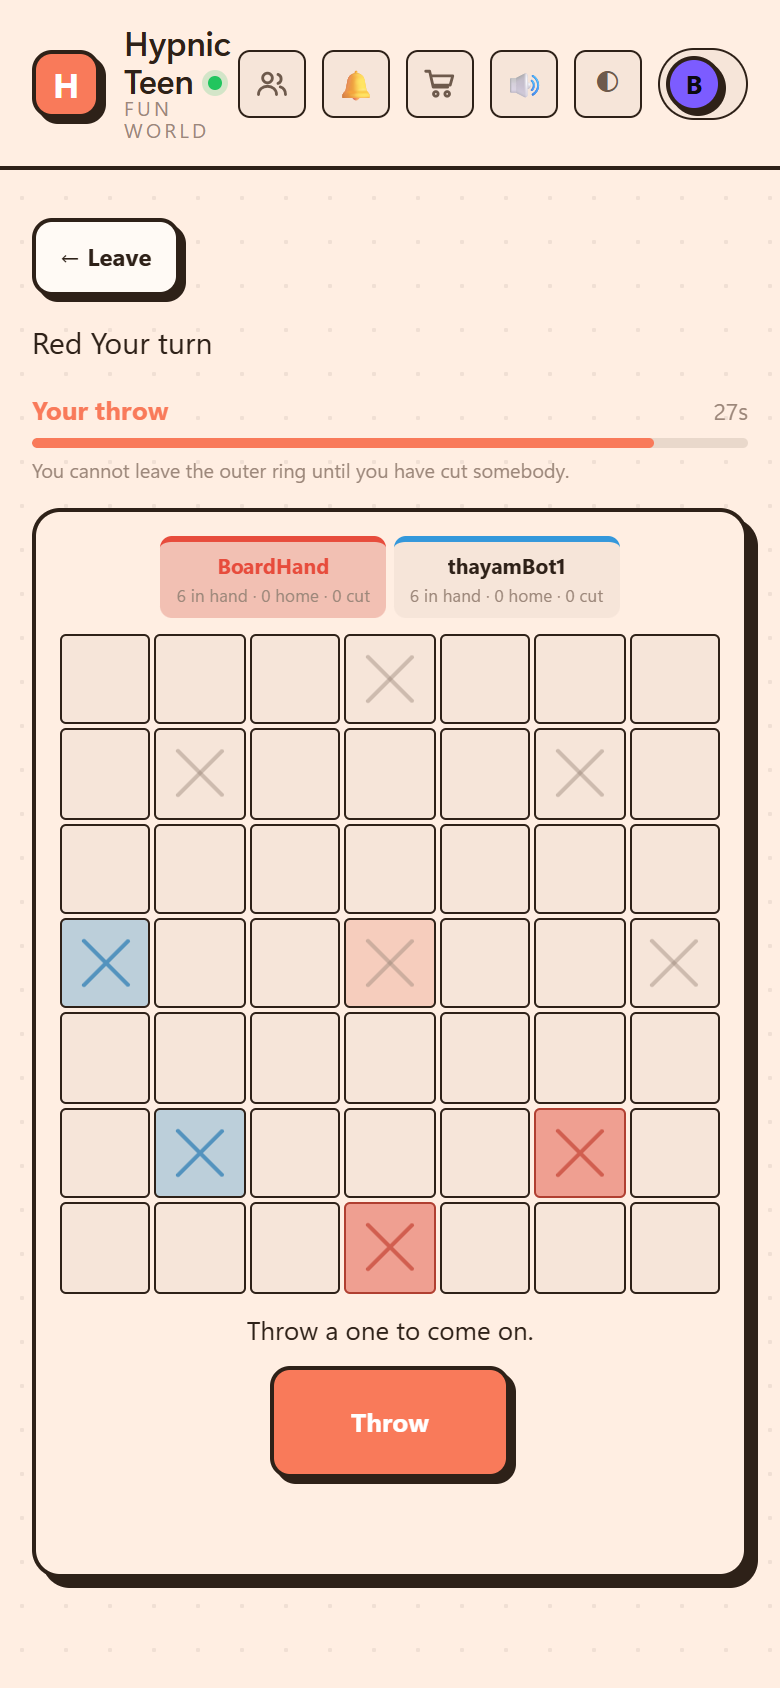
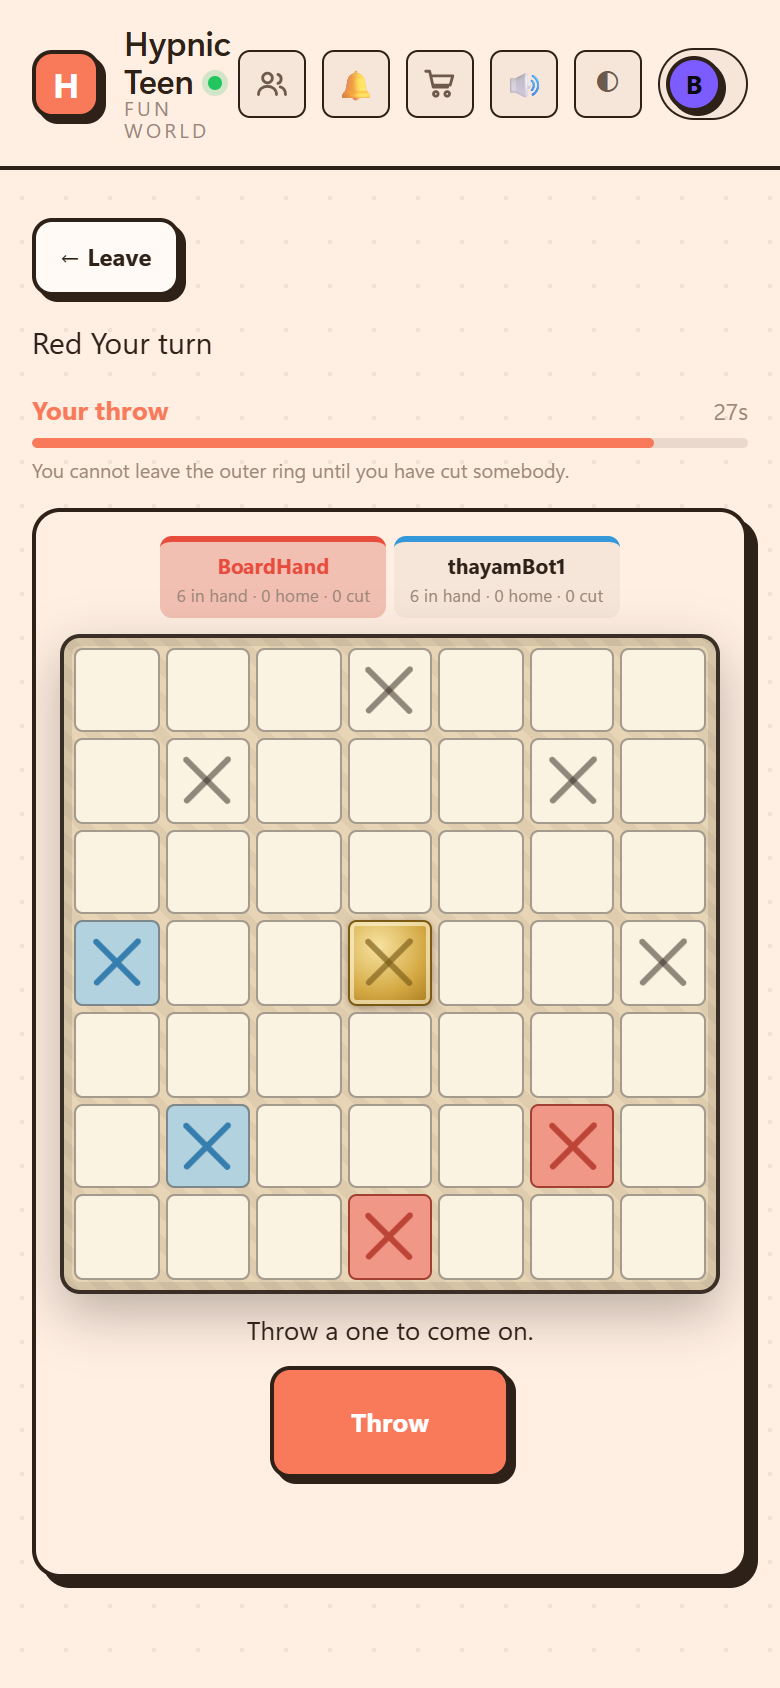
Thayam on a woven mat, and boards that cannot collapse
The board is an object on the table, not part of the page, so it gets the
same treatment as the ludo and chess boards: a fixed warm palette no skin
can break. Woven-mat ground, cream tiles, crosses cut deeper, the pazham
drawn as a brass medallion — the middle is the point of the whole walk,
so it looks like a prize rather than another square. The coins are glossy
domes like every other piece in the studio you can pick up.

grid-auto-rows: 1fr moves to the base board rule: rows must share height
the way columns share width, or a square board collapses into a stack of
content-tall lines — which is exactly how the first Thayam shipped.

The paint is asserted from inside the page by computed style, not by
screenshot pixels — a screenshot depends on where the page happens to be
scrolled, and this does not. 125 board checks in the browser.

Changed region(s): [[0.0615, 0.3697, 0.9538, 0.8009]]

diff --git a/public/css/site.css b/public/css/site.css
@@ -5077,6 +5077,10 @@ body.dropping::after {
   --n: 7;
   display: grid;
   grid-template-columns: repeat(var(--n), 1fr);
+  /* Rows share the height the way columns share the width, or a square board
+     collapses into a stack of content-tall lines — which is exactly how the
+     first Thayam shipped. */
+  grid-auto-rows: 1fr;
   gap: 2px;
   width: min(100%, 340px);
   aspect-ratio: 1;
@@ -5454,6 +5458,64 @@ body.dropping::after {
   color: var(--warning);
   text-align: center;
   max-width: 30ch;
+}
+
+/* Thayam, dressed as the thing it is: a board drawn on a woven mat, played
+   with shells. The same warm fixed palette as the ludo and chess boards, and
+   for the same reason — the board is an object on the table, not part of the
+   page, and it should not change colour because somebody likes a blue skin. */
+.bd.is-thayam .bd-board {
+  gap: 3px;
+  padding: 5px;
+  width: min(100%, 380px);
+  border-radius: var(--r-md);
+  border: 2px solid #3a2f26;
+  background:
+    repeating-linear-gradient(45deg, rgba(58, 47, 38, 0.05) 0 6px, transparent 6px 12px),
+    #e8d5b5;
+  box-shadow: inset 0 0 0 4px rgba(58, 47, 38, 0.1), 0 10px 26px rgba(20, 14, 8, 0.28);
+}
+.bd.is-thayam .bd-cell {
+  background: #fbf3e2;
+  border: 1px solid rgba(58, 47, 38, 0.45);
+  border-radius: 10%;
+}
+/* The crosses, cut deeper into the wood. */
+.bd.is-thayam .bd-cell.is-safe::before,
+.bd.is-thayam .bd-cell.is-safe::after {
+  background: rgba(58, 47, 38, 0.55);
+  inset: 10% 46%;
+  border-radius: 2px;
+}
+/* A player's own crosses stay painted — the tint does the navigating. */
+.bd.is-thayam .bd-cell.is-owned { background: color-mix(in srgb, var(--own) 36%, #fbf3e2); }
+.bd.is-thayam .bd-cell.is-owned::before,
+.bd.is-thayam .bd-cell.is-owned::after { background: color-mix(in srgb, var(--own) 75%, #3a2f26); }
+.bd.is-thayam .bd-cell.is-yours {
+  background: color-mix(in srgb, var(--own) 55%, #fbf3e2);
+  border-color: color-mix(in srgb, var(--own) 60%, #3a2f26);
+}
+/* Pazham. The middle is the point of the whole walk, so it looks like a prize:
+   a brass medallion, not another square. */
+.bd.is-thayam .bd-cell.is-centre {
+  background: radial-gradient(circle at 35% 30%, #f7e3a1, #d4a944 60%, #a97a1f);
+  border-color: #7a5a15;
+  box-shadow: inset 0 0 0 2px rgba(255, 248, 220, 0.6), 0 1px 4px rgba(20, 14, 8, 0.3);
+}
+.bd.is-thayam .bd-cell.is-centre::before,
+.bd.is-thayam .bd-cell.is-centre::after { background: rgba(122, 90, 21, 0.65); }
+/* The coins are shells: glossy domes, like every other piece in the studio
+   that you can pick up. */
+.bd.is-thayam .bd-coin {
+  border: 0;
+  background: radial-gradient(circle at 32% 28%,
+    color-mix(in srgb, #fff 62%, var(--tint)) 0%,
+    var(--tint) 55%,
+    color-mix(in srgb, #000 36%, var(--tint)) 100%);
+  box-shadow: 0 1.5px 3px rgba(0, 0, 0, 0.4), inset 0 -2px 3px rgba(0, 0, 0, 0.22);
+}
+.bd.is-thayam .bd-coin.can-move {
+  box-shadow: 0 0 0 2px #fff, 0 0 12px var(--tint), 0 1.5px 3px rgba(0, 0, 0, 0.4);
 }
 
 /* Shut out of the middle for good. Louder than "blocked for now", because it
